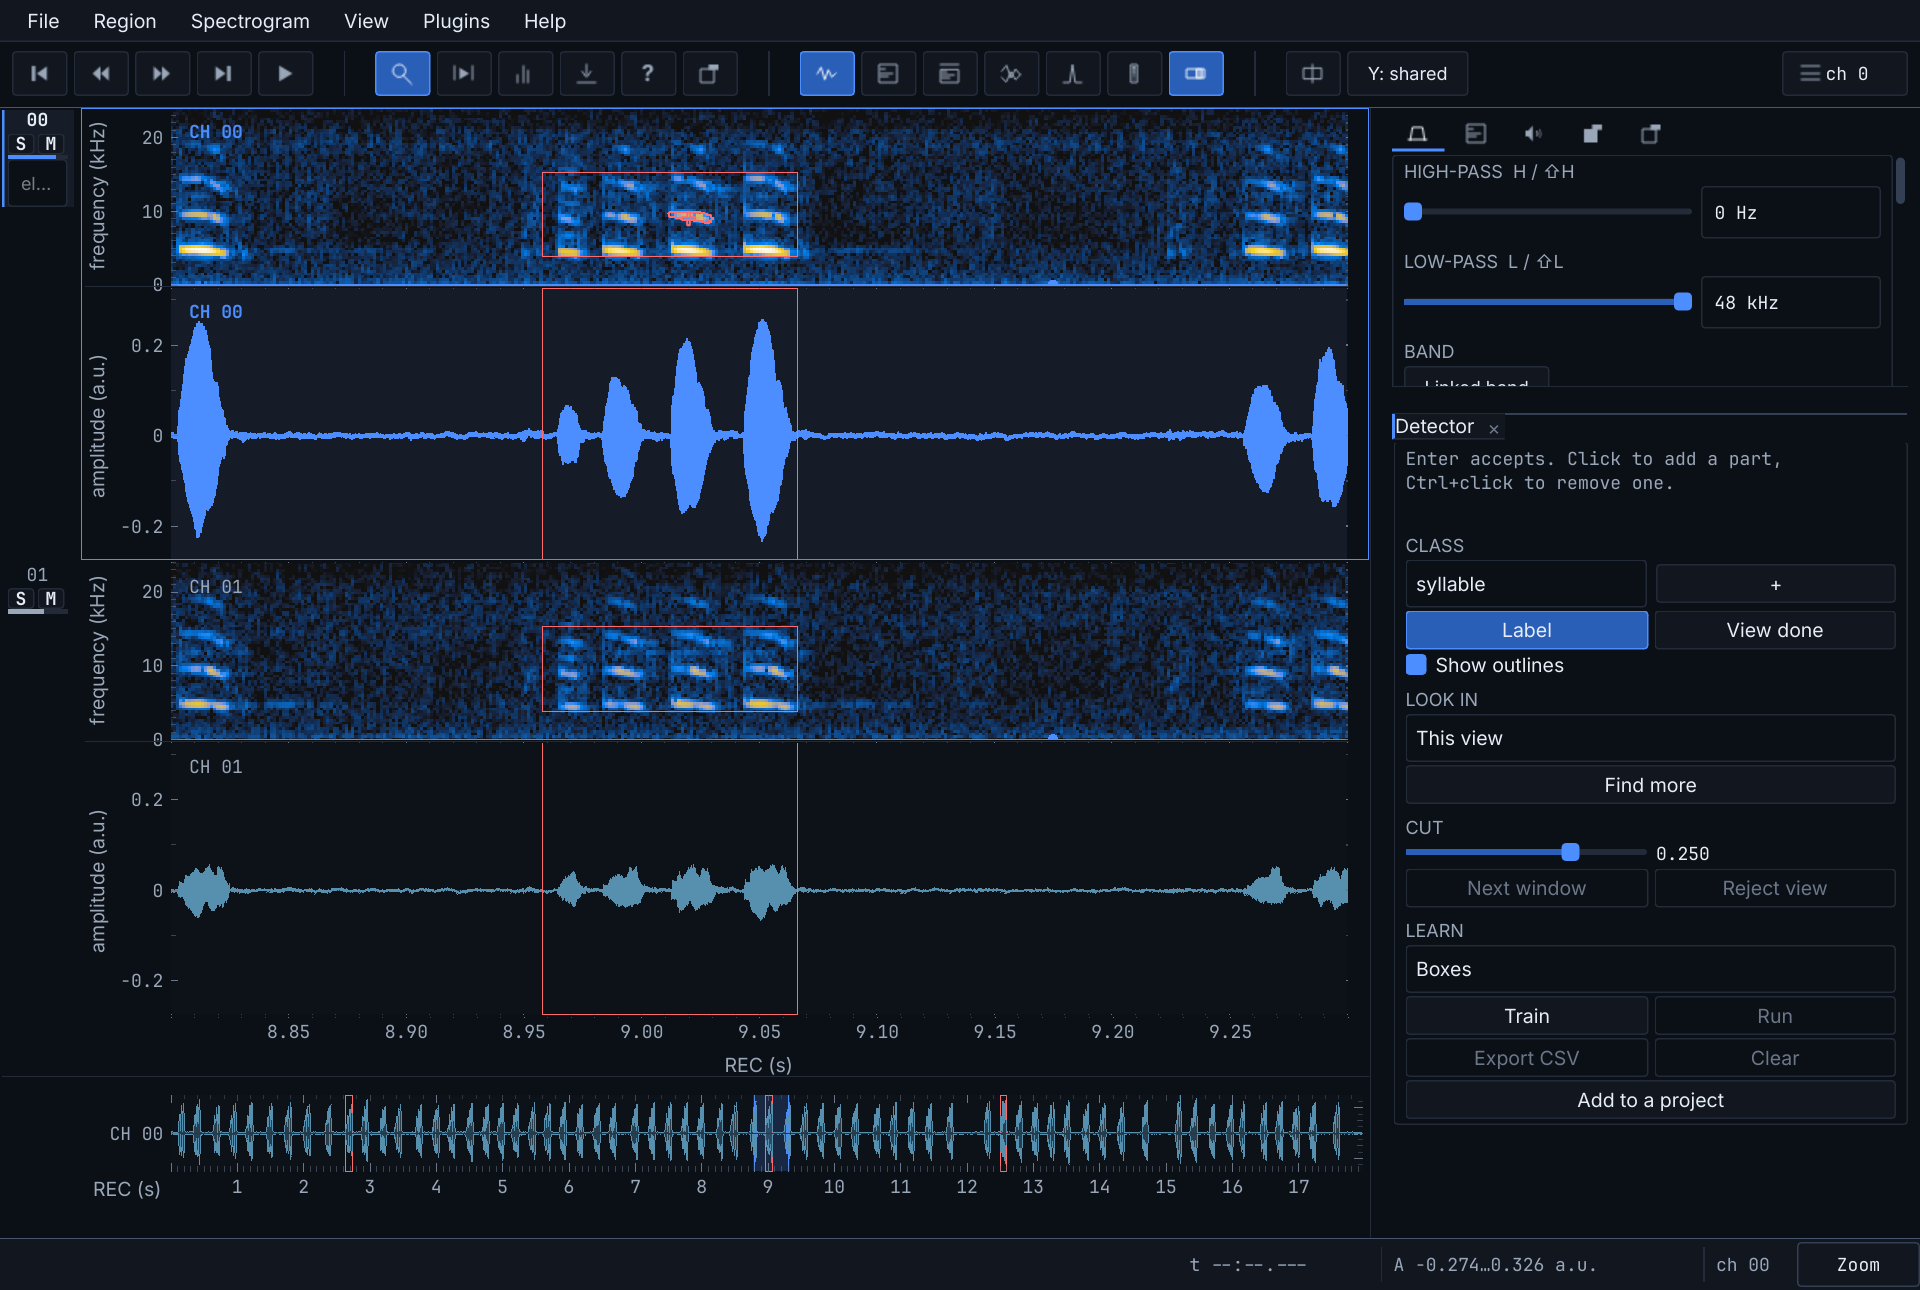
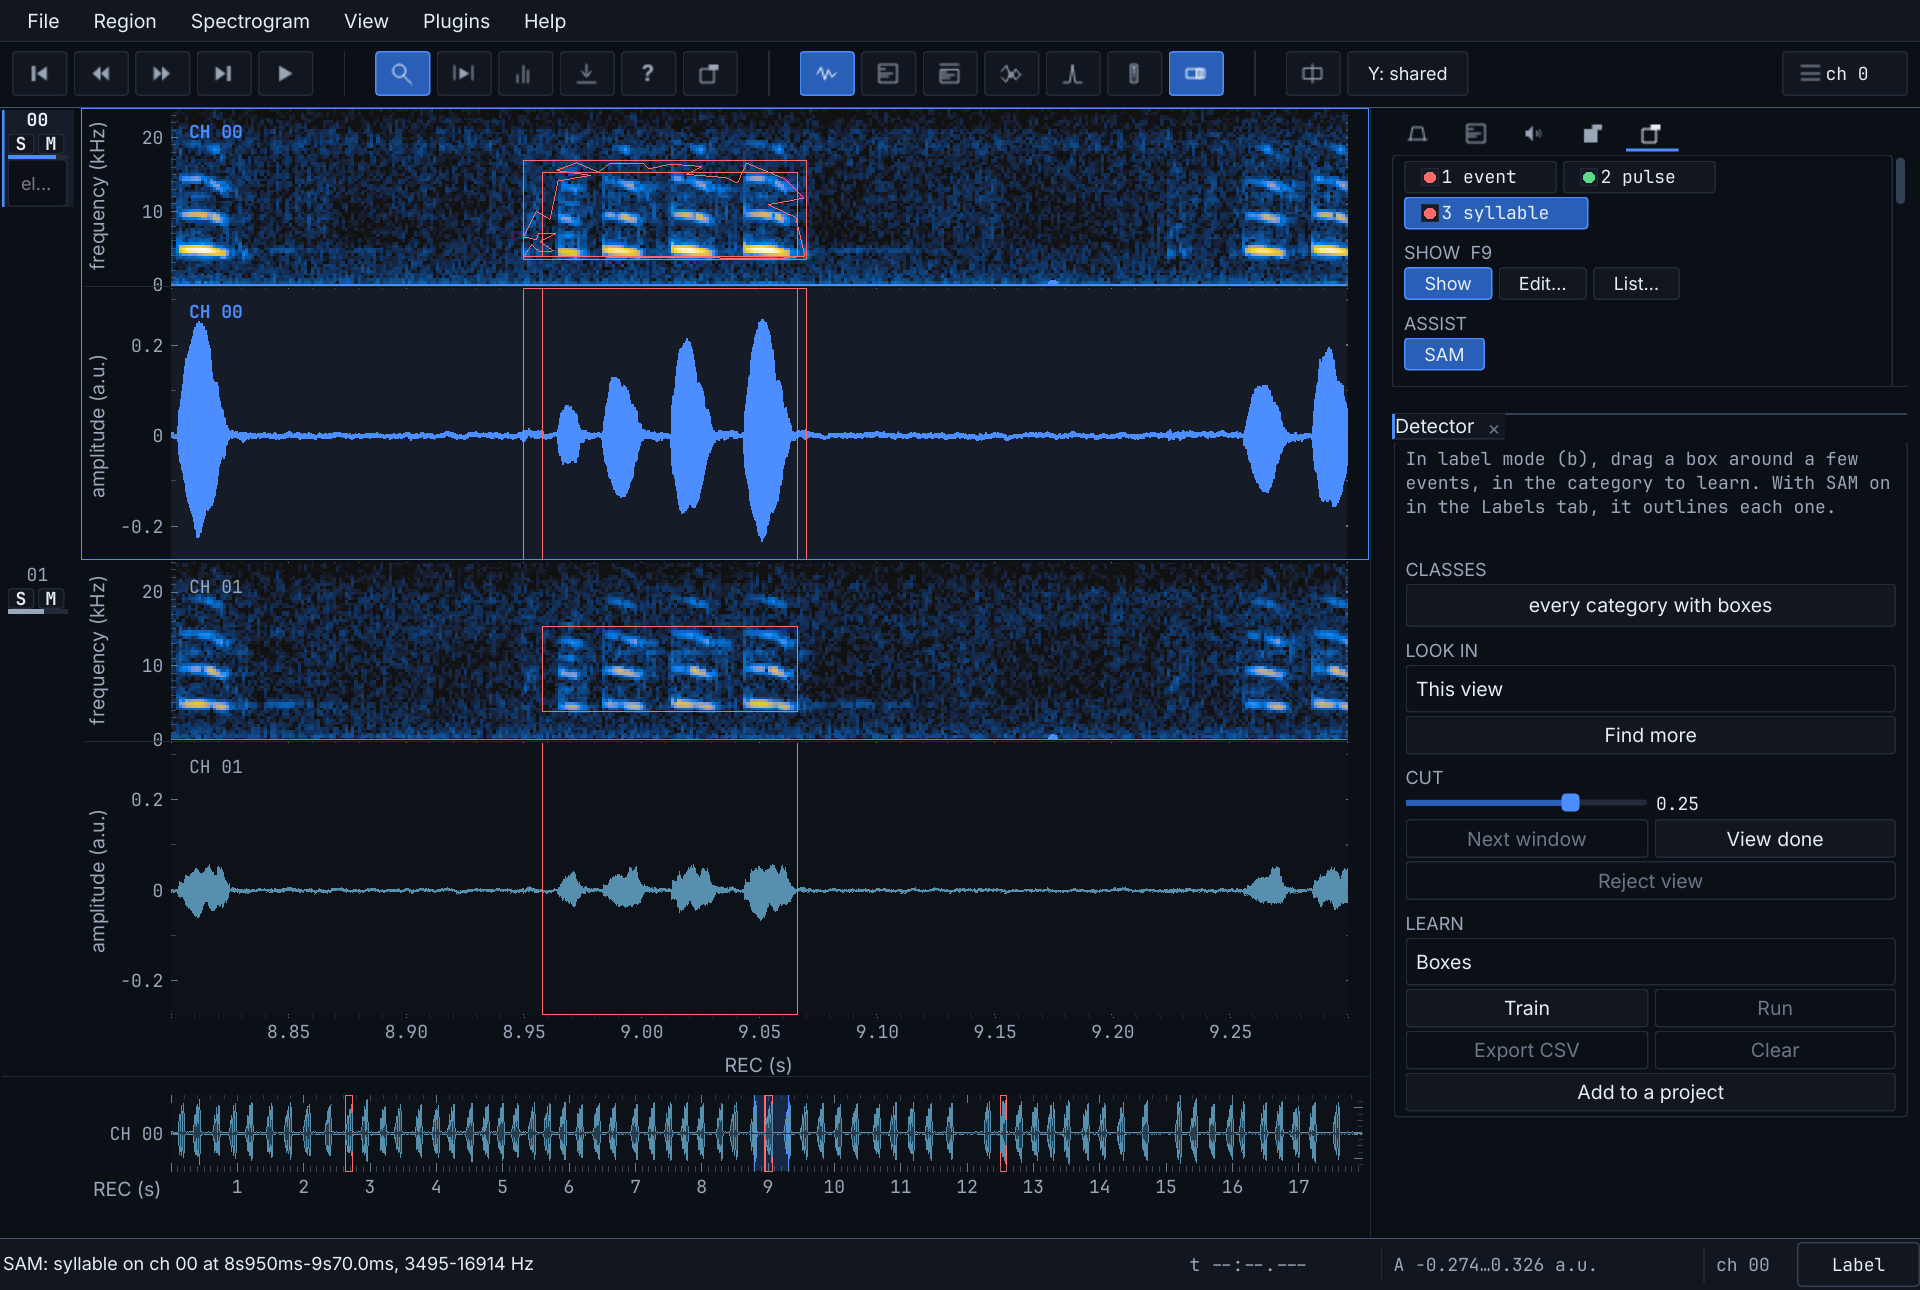
Document labelling with SAM in audian's own label tool
The manual, README, changelog, architecture notes and design document now say that
events are labelled in label mode, with the SAM toggle in the Labels tab, and that
every labelled span category is a class. The screenshots show a drag outlined by SAM
and a window under review.

diff --git a/docs/usermanual.md b/docs/usermanual.md
@@ -551,30 +551,27 @@ needs no network.
 
 ### Label a few events
 
-Choose or add a class, press **Label**, and drag a box around an event on the
-spectrogram. SAM draws an outline inside your box. Press <kbd>Enter</kbd> to
-accept it. The label goes into the current category, in the same sidecar as every
-other label.
+Label the way you always do: press <kbd>b</kbd> for label mode, pick a category
+on the chips or with its digit key, and drag a box around an event on the
+spectrogram. The tab has no labelling of its own. Every span category with boxes
+on the spectrogram is something the detector learns; **Classes** names them, and
+unticking one there leaves it out. New categories come from the Labels tab
+(<kbd>Ctrl</kbd>+<kbd>L</kbd>).
 
-A rough box is enough: detectors trained from rough boxes did about as well as
-those trained from careful ones. A single click is not. It finds only the blob
-under the pointer, such as one harmonic of a pulse, and labels made that way
-trained much worse detectors. Use clicks to adjust an outline.
+With the plugin installed, the Labels tab has a **SAM** toggle beside **Show**.
+With it on, the box you drag is stored at once, as always, and SAM then tightens
+it onto the event and draws the event's outline inside it, a moment later. There
+is nothing to accept. <kbd>Shift</kbd>+<kbd>B</kbd> still takes the whole label
+back, and if you move or resize the box before SAM answers, your box is kept.
+Turn SAM off to keep exactly the box you drew; the choice is remembered.
 
-| Input | What it does |
-| --- | --- |
-| Drag | Box the event |
-| Click | Add this part to the outline |
-| <kbd>Ctrl</kbd>+click | Remove this part from the outline |
-| Click a candidate | Reject it |
-| <kbd>Enter</kbd> | Accept the outline, or if there is none, accept what is left in view and go to the next window |
-| <kbd>Shift</kbd>+<kbd>Enter</kbd> | Reject what is left in view and go to the next window |
-| <kbd>Backspace</kbd> | Undo the last click or rejection |
-| <kbd>Esc</kbd> | Drop the outline |
+The outline is part of the label: it is drawn over the spectrogram and kept in the
+sidecar, in a column of its own. Moving or resizing a box with its grips drops the
+outline, since the box it described is gone. The first time SAM is used, the
+Detector tab's **Get models** must have fetched it.
 
-These keys belong to the tool only while **Label** is on, and never while you are
-typing in a field. The right mouse button and the wheel still move the view.
-Labels you draw the usual way, with **Label** off, count too.
+A rough box is enough: detectors trained from SAM's answers to rough drags did
+about as well as those trained from careful boxes.
 
 ### Find more, and review
 
@@ -583,12 +580,24 @@ no model yet, otherwise with the last model you trained. **Look in** sets how mu
 of the recording it searches. Candidates appear as labels in `<class> (found)`.
 Move **Cut** to show more or fewer of them, which runs nothing.
 
-**Next window** goes to the window worth looking at next and turns on **Label**.
-Click the wrong candidates to reject them, drag around any event that was missed,
-then press <kbd>Enter</kbd>. Everything still shown in view is accepted, and the
-view counts as reviewed. You can also resize a candidate with its grips, with
-**Label** off, or delete it with the ordinary label tools, which counts as a
+**Next window** goes to the window worth looking at next, in label mode. Click
+the wrong candidates to reject them, drag around any event that was missed, as you
+would label anything, then press <kbd>Enter</kbd>. Everything still shown in view
+is accepted, and the view counts as reviewed. You can also resize a candidate
+with its grips, or delete it with the ordinary label tools, which counts as a
 rejection.
+
+| Input | What it does |
+| --- | --- |
+| Click a candidate | Reject it |
+| Drag | Label an event the model missed, as always in label mode |
+| <kbd>Enter</kbd> | Accept what is left in view and go to the next window |
+| <kbd>Shift</kbd>+<kbd>Enter</kbd> | Reject what is left in view and go to the next window |
+| <kbd>Backspace</kbd> | Take back the last rejection or finished view |
+
+These belong to review only in label mode, while candidates are drawn in view,
+and never while you are typing in a field. Otherwise a click, <kbd>Enter</kbd>
+and <kbd>Backspace</kbd> do what they do everywhere else in Audian.
 
 Candidates never stay in the sidecar: they are taken off when you close the file,
 and come back next time.
@@ -621,8 +630,9 @@ writes what is above the cut beside the recording as `<stem>-detections.csv`.
 ### Where things are kept
 
 The project is the directory `<stem>-specdetector` beside the recording. It holds
-what you reviewed and rejected, SAM's outlines, the last candidates, the trained
-models and the results. Each model's `model.json` records the image settings it
+what you reviewed and rejected, which categories you left out, the last
+candidates, the trained models and the results. Your labels and their outlines
+stay in the sidecar beside the recording. Each model's `model.json` records the image settings it
 needs.
 
 Delete the `dataset` directory inside a model freely: it is rebuilt from the

diff --git a/docs/specdetector-design.md b/docs/specdetector-design.md
@@ -12,7 +12,7 @@ decision. Everything here is reproduced by `tests/measure_specdetector.py` and
 ## The loop
 
 ```
-Label       drag a box around an event; SAM outlines it
+Label       audian's own label mode: a category, a rough box; SAM tightens and outlines it
 Find more   candidates, from the labels (YOLOE) or from the last trained model
 Review      go through windows; reject what is wrong; the rest is accepted
 Train       YOLO26n on what has been looked at, about a minute on a GPU
@@ -21,6 +21,20 @@ Run         the whole recording, in the background
 
 Everything after labelling can repeat. Labelling goes on during training, because SAM
 has a runner process of its own.
+
+**There is one way to label, and it is audian's.** The plugin first had a label tool of
+its own: a Label button, a class picker, a SAM prompt that took clicks and waited for
+Enter. That was a second scheme beside the one every other label is made with, and the
+user asked for it to go. SAM is now an *assistant* of audian's label tool
+(`audian.labelassist`): a drag in label mode stores the label as always, and SAM then
+answers it with a tighter box and the event's outline, written onto the same label. It is
+a toggle in the Labels tab, and with it off a box is exactly what was drawn. Every span
+category with boxes on the spectrogram is a class, unless the reader leaves it out; a
+category left out is masked rather than taught as background.
+
+SAM's click prompts went with the old tool. A detector trained on click outlines scored
+0.569 on chirps against 0.895 from rough drags (below), so the gesture worth keeping was
+the drag.
 
 ## How it is built
 
@@ -35,7 +49,8 @@ recording.py     reading a recording without audian        thunderlab
 models.py        everything that touches Ultralytics       child process only
 modelrunner.py   JSON lines on stdin and stdout            child process only
 client.py        the runner as Qt signals                  QtCore
-tools.py         mouse and keys on the lanes               Qt
+assistant.py     SAM as audian's label assistant           QtCore
+tools.py         review's click and keys on the lanes      Qt
 panel.py         the tab                                   Qt
 ```
 
@@ -47,7 +62,8 @@ nothing on the runner's side can import audian or Qt. The protocol matches wavet
 runner. Cancelling kills the process, so a `detect` writes nothing until it finishes,
 and then to a `.partial` file first.
 
-**The panel holds two runners,** one for what takes minutes and one for SAM.
+**There are two runners,** the panel's for what takes minutes and the label assistant's
+for SAM, which starts on the first drag with SAM on.
 
 **Ultralytics is kept home and offline.** Left alone it writes under `~/.config`,
 installs requirements with pip at run time, sends analytics, and downloads weights and a
@@ -59,7 +75,8 @@ only the model files present.
 
 A reader's labels are ordinary editable labels, in the ordinary sidecar. A box drawn for
 this plugin is a label everywhere else in audian, and a label drawn long before it
-existed is already a training example.
+existed is already a training example. SAM's outline is part of the label, in the
+sidecar's last column, and audian draws it; moving the box drops it.
 
 A machine's guesses are labels too, in `<class> (found)`, so the code that draws and
 edits everything else draws and edits them. That category is **transient**
@@ -68,8 +85,9 @@ the digit keys or in the settings. Taking guesses out before each save cannot wo
 because the autosave runs on every edit and a crash leaves whatever was last written.
 
 The project directory (`<stem>-specdetector`, beside the recording) holds what a label
-cannot say: reviewed rectangles, rejections, SAM's outlines, the last candidates, the
-image settings and the models. It can span several recordings, whose labels stay in their
+cannot say: reviewed rectangles, rejections, the classes and those left out, the last
+candidates, the image settings and the models. Outlines it kept before labels could
+carry them move onto their labels when a recording is opened. It can span several recordings, whose labels stay in their
 own sidecars.
 
 ### The one rule: only what a person has looked at reaches the model

diff --git a/docs/architecture.md b/docs/architecture.md
@@ -28,7 +28,9 @@ Two kinds of label, kept apart:
 
 - `labels.py`: The **editable labels**: the store, and the
   `<stem>-editable-labels.csv` sidecar beside the recording. Pure data, no Qt.
-  These are the ones a reader draws afterwards.
+  These are the ones a reader draws afterwards, each with an optional outline.
+- `labelassist.py`: The hook a plugin's label assistant fills, such as SAM: the
+  browser stores a drawn label, then writes the assistant's answer onto it.
 - `session.py`, `alignment.py`, `layers.py`: The **fixed labels**: a fakefish
   session bundle, the fit that places it in the recording and how far to trust
   it, and what the bundle offers the browser to switch on. Audian never writes
@@ -107,8 +109,9 @@ Everything else on screen:
 - `statisticsanalyzer.py`: Compute basic descriptive statistics.
 
 Plugins are found in three places, and all three bind the same way: a module
-exposing callables named `audian_*panel`, `audian_*analyzer`, `audian_*traces`
-or `audian_*denoisers`:
+exposing callables named `audian_*panel`, `audian_*analyzer`, `audian_*traces`,
+`audian_*denoisers` or `audian_*label_assistant` (`labelassist.py`: help with
+drawing a label, which answers each drag with a better box and a shape):
 
 1. **Bundled**, by walking `src/audian_plugins/`. These ship with audian and
    need no installing.
@@ -120,8 +123,10 @@ or `audian_*denoisers`:
 Bundled plugins:
 
 - `audian_plugins/specdetector/`: Trains a detector on the recording from a few
-  labels, at **Plugins > Spectrogram detector**: SAM to label, YOLOE to propose,
-  YOLO to detect, all through Ultralytics in a child process. `tiling.py` turns
+  labels, at **Plugins > Spectrogram detector**: SAM as audian's label assistant
+  (`assistant.py`), YOLOE to propose, YOLO to detect, all through Ultralytics in
+  a child process. The tab has no label tool of its own; it reads audian's
+  labels, and every labelled span category is a class. `tiling.py` turns
   samples into images and pixels back into seconds and hertz. `dataset.py`,
   `review.py`, `boxes.py` and `project.py` are the rest of the logic and import no
   Qt. `models.py` and `modelrunner.py` run out of process and are the only files

diff --git a/CHANGELOG.md b/CHANGELOG.md
@@ -9,11 +9,17 @@ at v2.5. Install it from source; `pip install audian` gets upstream.
 
 - **Wavetracker plugin:** run wavetracker from inside audian and correct its
   tracks on the spectrogram, with undo history, autosave and harmonic flags.
-- **Spectrogram detector plugin:** label a few events with SAM, review what a
-  model proposes, train a YOLO detector on the recording in about a minute and
-  run it over the whole file. It replaces the template matcher that shipped
-  under **Plugins > Event detection**, which matched on the waveform as well;
-  this one works on the spectrogram only.
+- **Spectrogram detector plugin:** label a few events with audian's own label
+  tool, review what a model proposes, train a YOLO detector on the recording in
+  about a minute and run it over the whole file. Every labelled span category is
+  a class. It replaces the template matcher that shipped under **Plugins > Event
+  detection**, which matched on the waveform as well; this one works on the
+  spectrogram only.
+- **SAM in the label tool:** with the detector plugin installed, a **SAM**
+  toggle in the Labels tab tightens each box you drag and outlines the event in
+  it. Labels carry the outline in a new last column of the sidecar.
+- **Label assistants:** `audian_*label_assistant` plugins can answer a drawn
+  label with a better box and a shape (`audian.labelassist`).
 - **Denoiser plugins** for the spectrogram: mains hum and spatial coherence.
 - **Plugin API:** `audian.pluginapi`, plugins bundled in `audian_plugins`, and
   an `audian.plugins` entry point group for installed ones.

diff --git a/README.md b/README.md
@@ -78,10 +78,12 @@ over the whole recording.
 
 **Plugins → Spectrogram detector** is the whole loop, in one tab:
 
-1. **Label.** Drag a rough box around an event and SAM outlines it.
+1. **Label.** With audian's own label tool: <kbd>b</kbd>, a category, a rough
+   box. Turn on **SAM** in the Labels tab and it tightens the box onto the event
+   and outlines it.
 2. **Find more.** See right away what your labels suggest, with no training.
 3. **Review.** It takes you to the windows it is least sure of. Click what is
-   wrong and press <kbd>Enter</kbd>.
+   wrong, drag what was missed, and press <kbd>Enter</kbd>.
 4. **Train.** A YOLO detector on everything you have looked at. Events you have
    not labelled are masked out, so they are never taught as background.
 5. **Run.** The whole recording, in the background. Results arrive as ordinary
